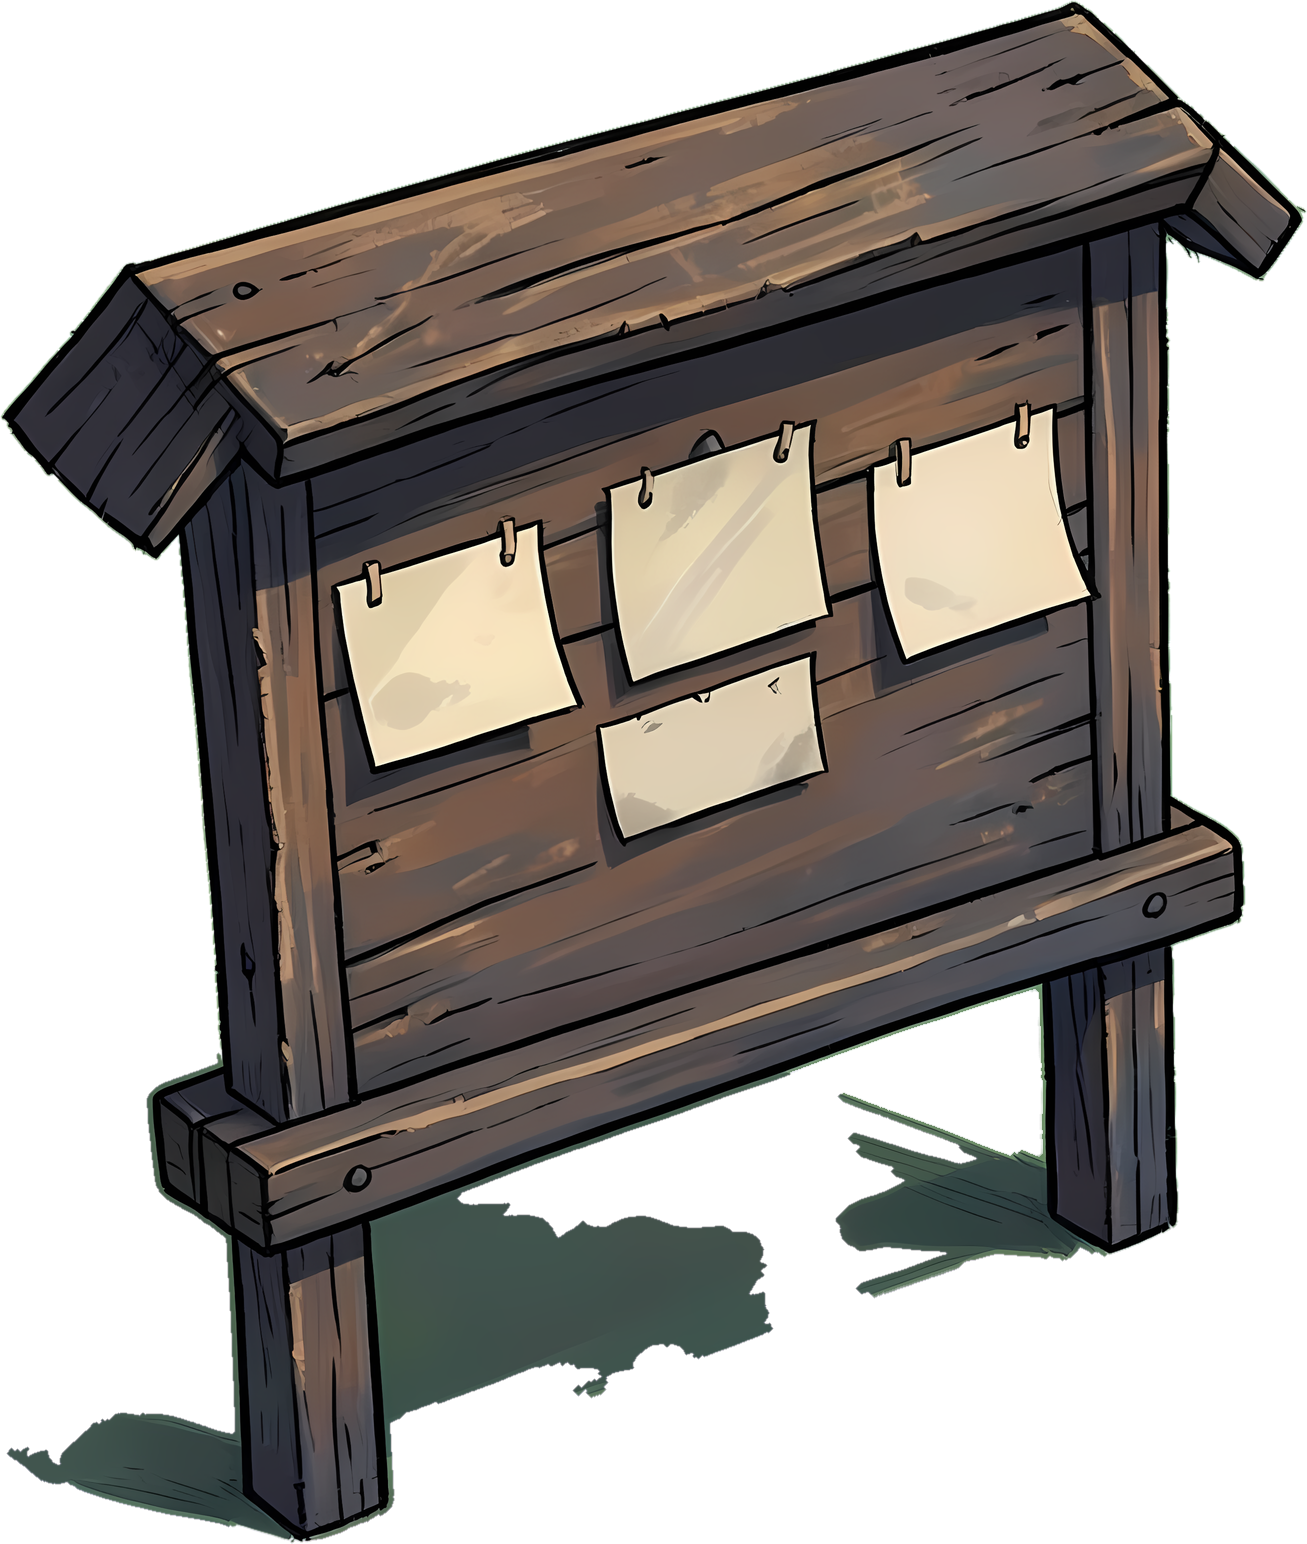
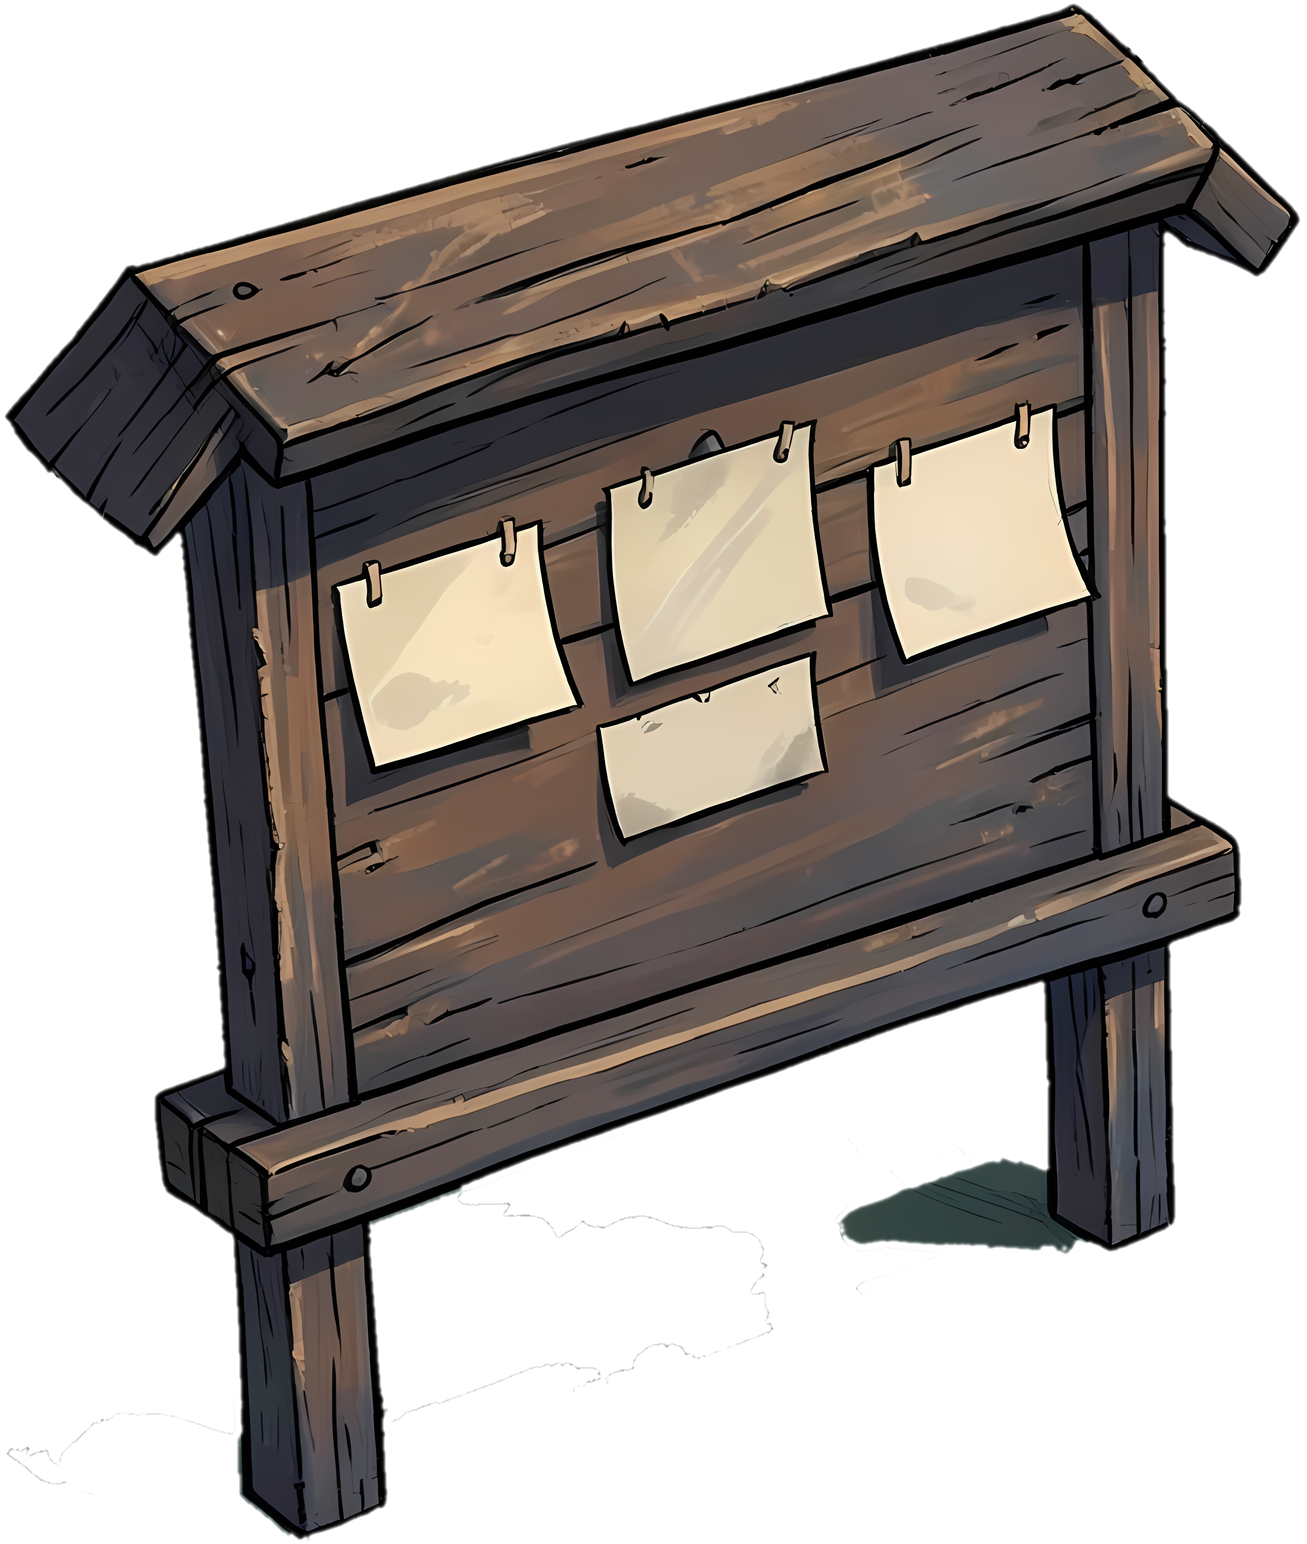
Mapa de normales del tablón de misiones
tools/normales_elementos.py gana --piezas (abombado de cada pieza cerrada por tinta): con el 0.9 de los árboles los
papeles y las tablas salían como pirámides; a 0.25 quedan planos y el relieve lo pone la veta. Al tablón se le quita la
sombra verde pintada al pie (--quitar-suelo más un barrido por tono verde para el resto entre las patas; original en
v1_con_suelo/) y se actualiza su silueta en el catálogo. El juego ya lo cargaba solo (el_tablon_nrm): de noche la
farola de la plaza lo enciende por su lado. Comparativa y captura en assets/gen/normales/elementos/.

diff --git a/tools/normales_elementos.py b/tools/normales_elementos.py
@@ -2,6 +2,7 @@
 
 Uso:  python -I tools/normales_elementos.py --arboles [--vista]
       python -I tools/normales_elementos.py arbol_alto sauce [--reduccion 2] [--fuerza 1.5] [--detalle 4] [--vista]
+      python -I tools/normales_elementos.py tablon --quitar-suelo --piezas 0.25 [--vista]   (cosas planas: tablas, papeles)
 
 Para cada `lab/assets/elementos_arcane/<id>.png` escribe `<id>_normal.png` al lado, a 1/`reduccion` del tamaño del
 PNG (los PNG van a ×2 del dibujo y en pantalla se reducen mucho más; a la mitad sobra resolución y el archivo pesa
@@ -76,7 +77,7 @@ def mascara_suelo(a: np.ndarray, contorno: np.ndarray) -> np.ndarray:
     return np.isin(etiq, 1 + np.flatnonzero(np.asarray(ymax) > 0.85 * H))
 
 
-def altura(rgba: np.ndarray, detalle_k: float, umbral: float = 0.07) -> tuple[np.ndarray, np.ndarray]:
+def altura(rgba: np.ndarray, detalle_k: float, umbral: float = 0.07, piezas_k: float = 0.9) -> tuple[np.ndarray, np.ndarray]:
     a, lum, contorno = tinta(rgba, umbral)
     # 1. silueta
     h_sil = inflar(a, 0.9)
@@ -94,7 +95,7 @@ def altura(rgba: np.ndarray, detalle_k: float, umbral: float = 0.07) -> tuple[np
     peso = ndi.gaussian_filter(a.astype(np.float32), sigma)
     suave = ndi.gaussian_filter(lum_in, sigma) / np.maximum(peso, 1e-3)
     detalle = np.where(a, lum - suave, 0)
-    h = 0.5 * h_sil + 0.9 * h_pz
+    h = 0.5 * h_sil + piezas_k * h_pz
     # 4. suelo: se aplana (si el PNG ya está limpio con --quitar-suelo, la máscara sale vacía)
     tierra = mascara_suelo(a, contorno)
     if tierra.any():
@@ -148,11 +149,11 @@ def quitar_suelo(id_: str, reduccion: int) -> bool:
     return True
 
 
-def procesar(id_: str, reduccion: int, fuerza: float, detalle_k: float, vista: bool) -> str:
+def procesar(id_: str, reduccion: int, fuerza: float, detalle_k: float, vista: bool, piezas_k: float = 0.9) -> str:
     img = Image.open(os.path.join(CARPETA, f'{id_}.png')).convert('RGBA')
     rgba = reducir(img, reduccion)
     h, w = rgba.shape[:2]
-    hh, a = altura(rgba, detalle_k)
+    hh, a = altura(rgba, detalle_k, piezas_k=piezas_k)
     nrm = normales(hh, a, fuerza)
     destino = os.path.join(CARPETA, f'{id_}_normal.png')
     Image.fromarray(nrm).save(destino, optimize=True)
@@ -178,6 +179,7 @@ def main() -> None:
     ap.add_argument('--reduccion', type=int, default=2, help='el normal sale a 1/N del PNG (2 = mitad)')
     ap.add_argument('--fuerza', type=float, default=1.5, help='multiplica la pendiente de las normales')
     ap.add_argument('--detalle', type=float, default=4.0, help='relieve de las pinceladas (0 = solo volumen)')
+    ap.add_argument('--piezas', type=float, default=0.9, help='abombado de cada pieza cerrada por tinta (0.9 = árboles; 0.25 = tablas y papeles planos)')
     ap.add_argument('--vista', action='store_true', help='guardar comparativa en assets/gen/normales/elementos/')
     ap.add_argument('--quitar-suelo', action='store_true', help='borrar antes el suelo pintado del PNG (original a v1_con_suelo/)')
     ap.add_argument('--menos', nargs='*', default=[], help='ids que se saltan (p. ej. los que se limpian a mano)')
@@ -189,7 +191,7 @@ def main() -> None:
     for i in ids:
         if args.quitar_suelo:
             print('suelo quitado' if quitar_suelo(i, args.reduccion) else 'sin suelo que quitar', i)
-        print(procesar(i, args.reduccion, args.fuerza, args.detalle, args.vista))
+        print(procesar(i, args.reduccion, args.fuerza, args.detalle, args.vista, args.piezas))
 
 
 if __name__ == '__main__':
